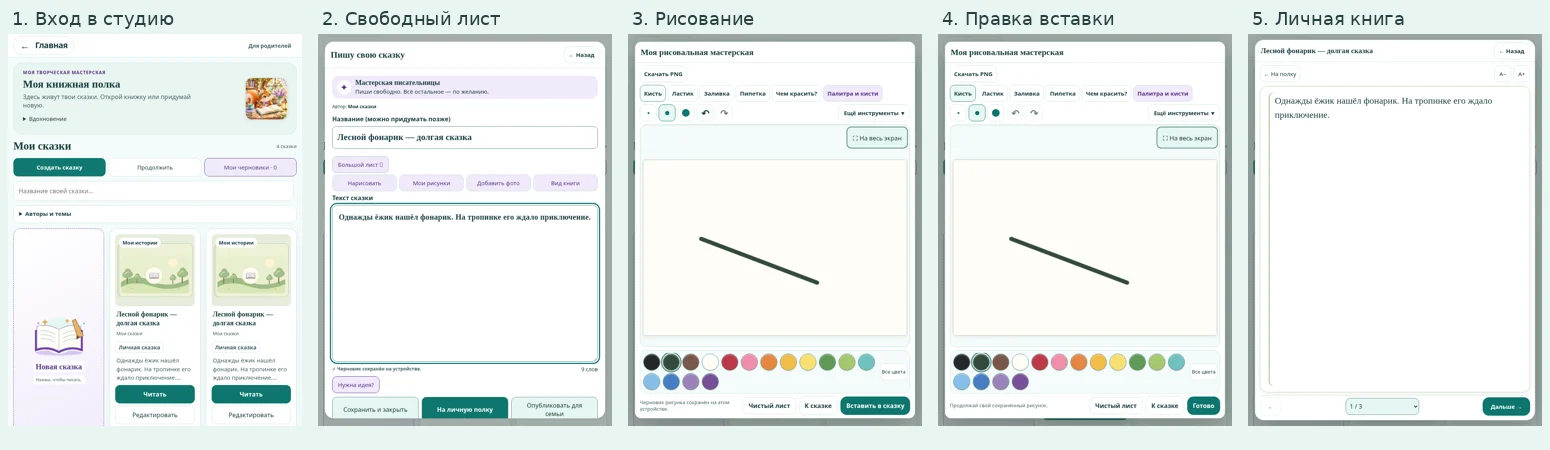
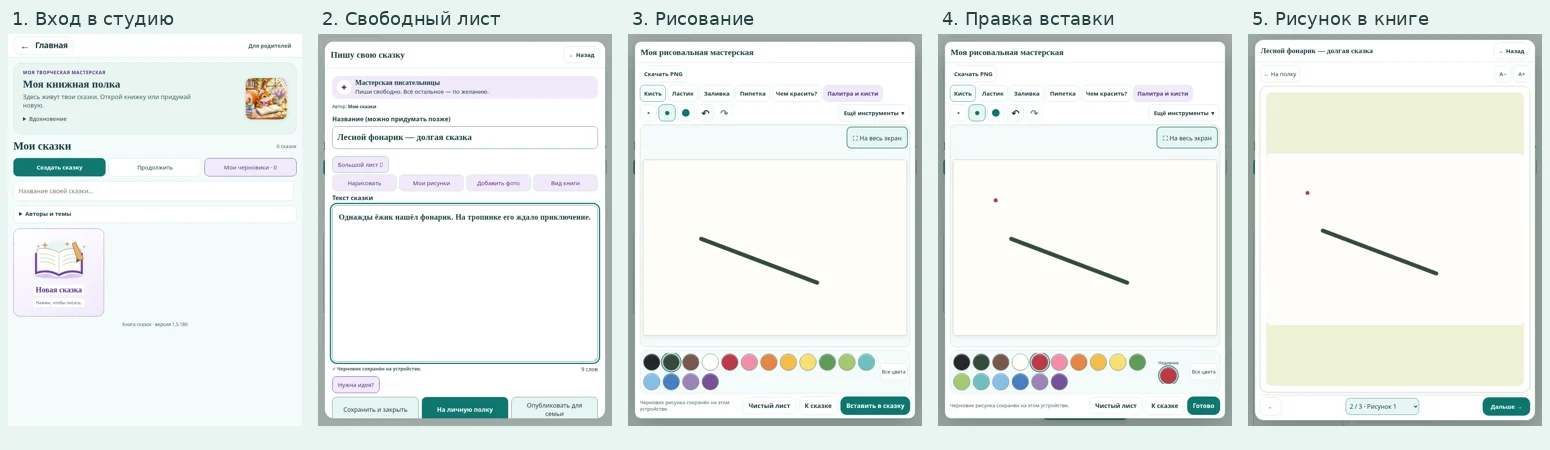
Record STUDIO FINAL evidence and remaining acceptance gates

diff --git a/QUALITY.md b/QUALITY.md
@@ -829,3 +829,14 @@ Reported on physical iPad: brush, Clear, Back to story, Insert stop responding w
 - Регрессия на коде кандидата пройдена локально, Chromium на предыдущем кандидате пройден. Полные проверки точного PR и открытые критерии указаны в PR #145 и SECTION_ACCEPTANCE.md. p95 отдельного действия, память и 30 минут непрерывного сеанса не измерены.
 
 Дальше в пакете 01: обратимые холсты по сказкам и редакции вставок с резервированием, затем полный визуальный gate и физический iPad. Доставка в реальную семейную полку требует отдельного подтверждения.
+
+## STUDIO FINAL · кандидат 1.5.180 · PR #145
+
+База main `5315cf75cff7dbfcfe893c4b9613223bad117599` (1.5.178), предыдущий кандидат `7c119b14576afa7f6cc237a3ad27c8ae325672da` прошёл все три проверки. Код текущего кандидата `75e5f0e1b427b624fb2e817a7322375b9b262202`. #143 согласован ранее переносом правок в #145, обе ветки сохранены.
+
+- F01/S01–S03. Личная сказка хранит отдельные листы, оригиналы PNG, предыдущую редакцию и позицию текста в существующей записи библиотеки. Текст, маркер, предпросмотр и оригинал вставки фиксируются одним подтверждённым вызовом записи. Декор и личные листы остаются вне семейного снимка. Старый общий JPEG доступен явным копированием и остаётся на месте. При отказе вставки открытый холст и доступный PNG сохранены.
+- F02. Проверены длина и SHA-256 всех 22 графических вложений FINAL. Включены четыре сюжета ART-N с миниатюрами 240×240 по 19 152–21 716 Б. Декодирование восьми новых WebP подтверждено. На входе один сюжет, остальные доступны по выбору, N04 появляется после добровольного открытия результата. [Пять фактических экранов](docs/author-studio-visual-1.5.180.webp)
+- S04 и T08–T09. Тест Chromium проверил экспорт и импорт двух синтетических сказок в независимый профиль, с точным сравнением данных оригиналов и сохранением общего черновика. Проверка зон касания прошла на девяти размерах, включая 320×568, Split View и широкие iPad. Проверен первый офлайн-вход в мастерскую после установки оболочки. Клавиатура моделируется VisualViewport.
+- Пять исходных стартовых файлов — 999 974 Б. Холодный Chromium 768×1024 — 1 099 499 Б полезной нагрузки и 1 102 799 Б с учётом транспорта. В дополнительном трафике новый код и стили мастерской. Миниатюра появилась только после входа на полку. Команды: `node tests/regression.cjs`, `node tests/browser-smoke.cjs`, `BROWSER=webkit node tests/browser-smoke.cjs`. Источник точного статуса CI — PR #145.
+
+Дальше: обеспечить независимое восстановление удалённой вставки и копию при конфликте, затем проверить рост библиотеки, 30 минут, метрики и rollback старой версии. Полную приёмку завершать на физическом iPad и с независимой реальной проверкой семейной доставки.

diff --git a/SECTION_ACCEPTANCE.md b/SECTION_ACCEPTANCE.md
@@ -222,3 +222,16 @@ Reported on physical iPad: brush, Clear, Back to story, Insert stop responding w
 | V04–V06 | НЕ ПРОВЕРЕНО | Сделаны снимки полки, письма, клавиатуры, холста, кистей, вставки и книги. Полное покрытие состояний и устройств впереди. |
 
 До приёмки пакета проверять точный HEAD в CI, реализовать оставшиеся операции с оригиналами, затем провести проверку на устройстве. [Визуальные снимки](docs/author-studio-visual-1.5.179.webp)
+
+## STUDIO FINAL · контрольная точка 1.5.180
+
+База `5315cf75cff7dbfcfe893c4b9613223bad117599`, код `75e5f0e1b427b624fb2e817a7322375b9b262202`, PR #145. Статусы для полных строк документа. [Фактические снимки](docs/author-studio-visual-1.5.180.webp)
+
+| Критерии | Статус | Доказательство и граница |
+| --- | --- | --- |
+| F01–F02 | PASS | Новый лист, возврат, продолжение того же PNG, вставка по якорю, правка и чтение. Четыре ART-N, пять фактических снимков. |
+| F03–F04 | НЕ ПРОВЕРЕНО | Синтетический отказ quota, PNG и потерянное касание покрыты. Полные T01–T10 и независимая проверка iPad открыты. |
+| S01–S03 | НЕ ПРОВЕРЕНО | PNG и предыдущая редакция, два листа в одной сказке, независимость другой, обратное чтение записи и отказ quota проверены. Длинный штрих, стресс, широкая матрица конфликтов и отдельная копия остаются открыты. Используется один localStorage-документ с последовательной проверкой, а не транзакционный IndexedDB или атомарный межвкладочный compare-and-swap. |
+| S04–S05 | НЕ ПРОВЕРЕНО | Экспорт и импорт в новый профиль, точное чтение оригиналов, проверяемая точка возврата. Остались испытания обновления и отката с прежних сборок и явный индикатор даты полной копии. |
+| T01–T10 | НЕ ПРОВЕРЕНО | Добавлена матрица девяти размеров с hit-test и выходом из полноэкранного холста. Режим 320×568 ограничивает второстепенные инструменты. Остались 200%, реальные safe area, клавиатура, Pencil, p95, память и 30 минут. |
+| A01–A12 / C01–C06 | НЕ ПРОВЕРЕНО | Пройден синтетический путь до личного чтения и отдельная проверка семейного транспорта. Полные критерии требуют дальнейших тестов и подтверждения на устройстве. |
